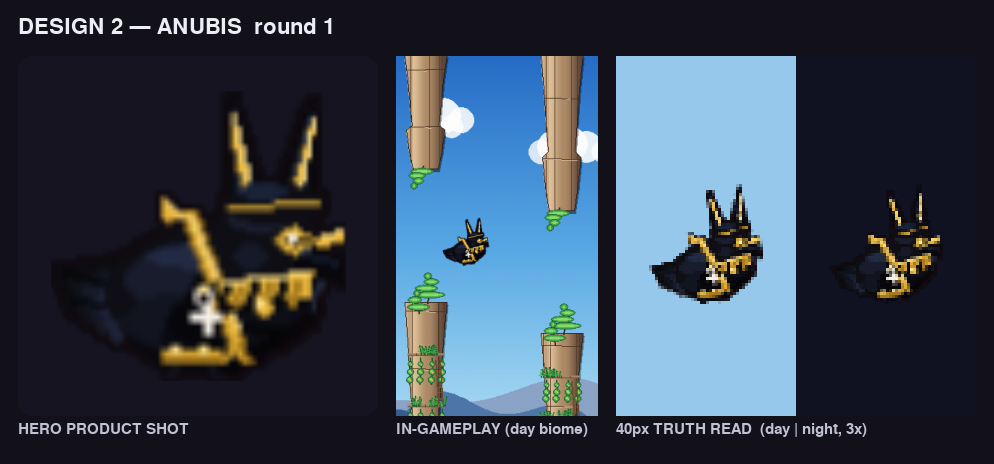
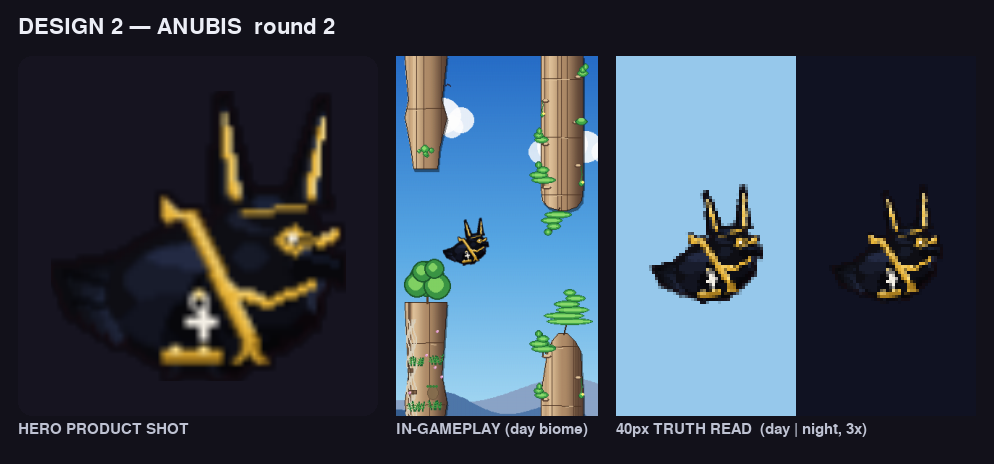
pharaoh design 2 (ANUBIS) R2: sharper twin-ear silhouette + de-cluttered chest
Widen ear bases and drop/narrow the skull-cap bridge so day sky survives
in the V between the two ear spikes at 40px. Collapse the usekh collar to
one thin gold arc and slim the kohl flick so the diagonal was-scepter leads
the chest hierarchy. Nudge the scepter base toward centre so the hip ankh
keeps its own pocket of black on both skies.

Claude-Session: https://claude.ai/code/session_01HafGQfRZVDiGkQqpJPr5Cm

diff --git a/tools/pharaoh_candidates/design_2.py b/tools/pharaoh_candidates/design_2.py
@@ -94,7 +94,8 @@ def _was_scepter(surf):
     crook at the top. Kept inside the body footprint — neither end overshoots
     far past the back, and nothing crosses the feet line."""
     top = (HX - 17, CROWN_Y + 3)       # crook head, high in the wing
-    bot = (HX - 7, HY + 21)            # forked base, above the feet line
+    bot = (HX - 4, HY + 21)            # forked base, pulled toward centre so the
+                                       # hip ankh keeps its own black pocket
     pygame.draw.line(surf, _AN_GOLD_D, top, bot, 4)
     pygame.draw.line(surf, _AN_GOLD, top, bot, 2)
     pygame.draw.line(surf, _AN_GOLD_H, (top[0] + 1, top[1] + 1),
@@ -129,15 +130,18 @@ def _paint(surf, _a):
     _was_scepter(surf)
 
     # Two TALL erect pointed jackal ears spiking straight up above the head —
-    # the unmistakable ~40px hero silhouette. Slightly splayed, both rising well
-    # past CROWN_Y; ONLY headgear allowed above the crown.
-    _ear(surf, HX - 4, HX - 7, cy + 1, cy - 22, 4)
-    _ear(surf, HX + 6, HX + 10, cy + 1, cy - 21, 4)
-    # A small black skull-cap bridging the ear bases so they read as growing
-    # from one head, not floating.
-    pygame.draw.ellipse(surf, _AN_BLACK, (HX - 9, cy - 3, 22, 9))
-    pygame.draw.ellipse(surf, _AN_SHEEN, (HX - 6, cy - 3, 11, 4))
-    pygame.draw.line(surf, _AN_GOLD, (HX - 8, cy + 2), (HX + 11, cy + 1), 1)
+    # the unmistakable ~40px hero silhouette. Bases splayed WIDE apart (left
+    # ~HX-7, right ~HX+9) so the black OUTER silhouette reads as two separate
+    # spikes with DAY SKY surviving in the V between them after downscale, not a
+    # single notched wedge. ONLY headgear allowed above the crown.
+    _ear(surf, HX - 7, HX - 9, cy + 1, cy - 22, 4)
+    _ear(surf, HX + 9, HX + 12, cy + 1, cy - 21, 4)
+    # A LOW, narrow black skull-cap bridging only the inner ear bases so they
+    # read as growing from one head — kept slim and dropped ~2px so the V-notch
+    # between the ears stays open to sky and the pair never fuses into a lump.
+    pygame.draw.ellipse(surf, _AN_BLACK, (HX - 5, cy - 1, 14, 8))
+    pygame.draw.ellipse(surf, _AN_SHEEN, (HX - 3, cy, 7, 3))
+    pygame.draw.line(surf, _AN_GOLD, (HX - 5, cy + 3), (HX + 8, cy + 2), 1)
 
     # Dark snout shadow along the beak — implies the long jackal muzzle without
     # changing the bird's footprint.
@@ -153,30 +157,21 @@ def _paint(surf, _a):
     _poly(surf, _AN_KOHL, [(ex - 2, ey), (ex, ey - 1), (ex + 3, ey),
                            (ex, ey + 1)])
     pygame.draw.circle(surf, _AN_IVORY, (ex, ey), 1)
-    # Long upturned kohl flick.
+    # Short kohl flick — kept brief so it doesn't compete with the diagonal
+    # scepter for the gold-line lead near the eye.
+    pygame.draw.line(surf, _AN_GOLD, (ex + 5, ey), (ex + 9, ey - 2), 2)
+    pygame.draw.line(surf, _AN_GOLD_H, (ex + 6, ey - 1), (ex + 8, ey - 2), 1)
+
+    # ONE thin gold collar arc across the upper breast — the alternating usekh
+    # bars vanished to speckle at 40px and read as gold mud against the scepter,
+    # so the collar recedes to a single legible line under the scepter.
     pygame.draw.lines(surf, _AN_GOLD, False,
-                      [(ex + 5, ey), (ex + 10, ey - 1), (ex + 13, ey - 4)], 2)
-    pygame.draw.line(surf, _AN_GOLD_H, (ex + 6, ey - 1), (ex + 11, ey - 2), 1)
+                      [(HX - 10, HY + 9), (HX, HY + 12), (HX + 10, HY + 8)], 2)
+    pygame.draw.line(surf, _AN_GOLD_H, (HX - 8, HY + 9), (HX - 1, HY + 11), 1)
 
-    # Narrow gold-and-black striped collar band across the upper breast, held
-    # inside the body footprint — alternating gold/dark bars so it reads as a
-    # banded usekh, not a solid plate.
-    collar = [(HX - 11, HY + 8), (HX + 11, HY + 6),
-              (HX + 9, HY + 13), (HX - 9, HY + 15)]
-    _poly(surf, _AN_KOHL, collar)
-    _poly(surf, _AN_GOLD, [(HX - 10, HY + 8), (HX + 10, HY + 6),
-                           (HX + 9, HY + 11), (HX - 9, HY + 13)])
-    for i in range(6):
-        x0 = HX - 9 + i * 3
-        col = _AN_KOHL if i % 2 == 0 else _AN_GOLD_D
-        pygame.draw.line(surf, col, (x0, HY + 8), (x0 - 1, HY + 13), 2)
-    pygame.draw.line(surf, _AN_GOLD_H, (HX - 9, HY + 8), (HX + 9, HY + 6), 1)
-    # A single gold drop bead centring the collar.
-    pygame.draw.circle(surf, _AN_GOLD, (HX, HY + 14), 2)
-    pygame.draw.circle(surf, _AN_GOLD_H, (HX - 1, HY + 13), 1)
-
-    # Small ivory ankh glyph at the hip (near side), inside the footprint.
-    _ankh(surf, HX - 13, HY + 14)
+    # Small ivory ankh glyph at the hip (near side), nudged out from the scepter
+    # base so the ivory sits in its own pocket of black and pops on both skies.
+    _ankh(surf, HX - 14, HY + 15)
 
     # Gold anklets at the feet line — a bright ring on each foot, not below it.
     for fx, fy in ((28, HY + 24), (34, HY + 24)):

diff --git a/tools/pharaoh_candidates/render_design_2.py b/tools/pharaoh_candidates/render_design_2.py
@@ -14,7 +14,7 @@ from tools import ninja_render
 from tools.pharaoh_candidates.design_2 import build
 
 OUT = "docs/store_redesign/costume/pharaoh/design_2/round_1.png"
-TITLE = "DESIGN 2 — ANUBIS  round 1"
+TITLE = "DESIGN 2 — ANUBIS  round 2"
 
 
 def _label(surf, text, x, y, size=18, color=(236, 238, 246)):
